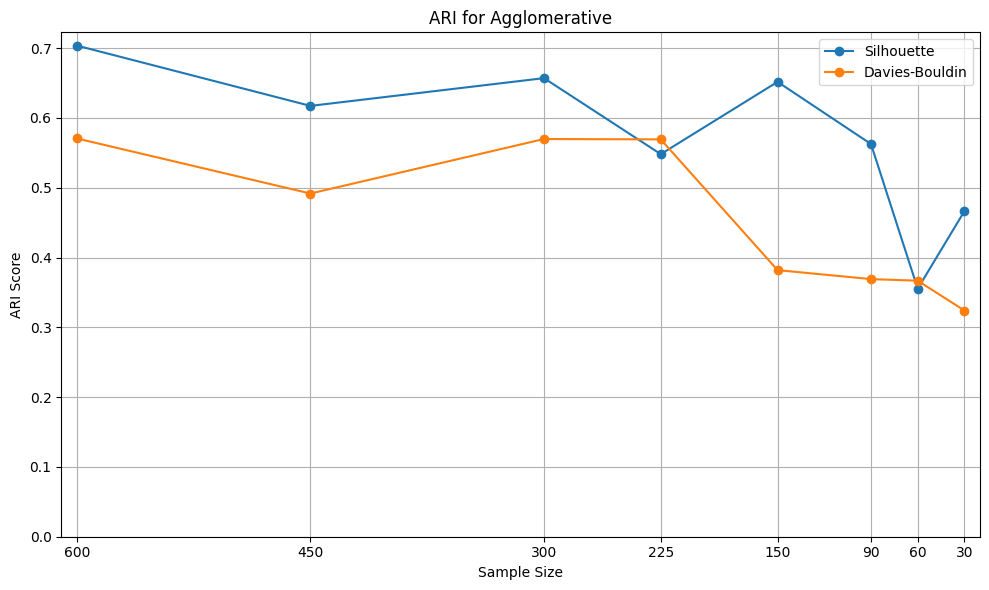
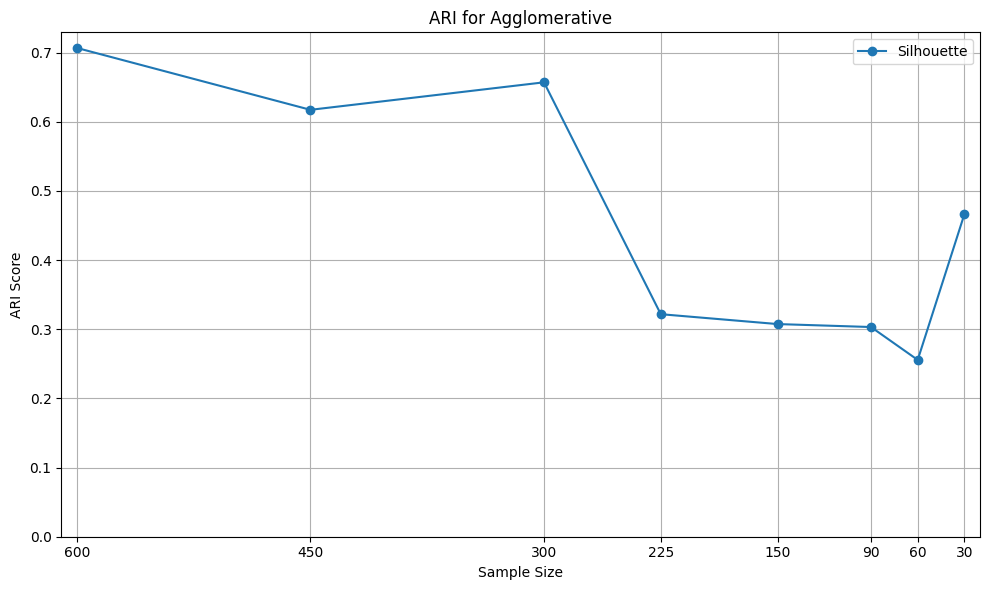
Diff sample size done

diff --git a/Project 3/Hedvog.py b/Project 3/Hedvog.py
@@ -46,7 +46,7 @@ def plot_silhouette_samples(X, labels, title):
     plt.show()
 
 # === Clustering Runner ===
-def run_clustering_models(X, y_true=None, k_range=range(2, 31), dataset_name="Dataset", plot=True, diff_sample=False):
+def run_clustering_models(X, y_true=None, k_range=range(2, 11), dataset_name="Dataset", plot=True, diff_sample=False):
     X_scaled = StandardScaler().fit_transform(X)
 
     if dataset_name == "CatDog":
@@ -54,6 +54,7 @@ def run_clustering_models(X, y_true=None, k_range=range(2, 31), dataset_name="Da
     else:
         if diff_sample:
             n_components = min(50, np.floor(X_scaled.shape[0]//5), X_scaled.shape[1])
+            k_range = range(2, 30)
         else:
             n_components = min(50, X_scaled.shape[0], X_scaled.shape[1])
 
@@ -207,7 +208,7 @@ def run_clustering_models(X, y_true=None, k_range=range(2, 31), dataset_name="Da
     return results
 
 # === Sample Size Simulation ===
-def simulate_sample_size_effect(X, y, classes=[0,1,2], sizes=[200, 100, 75, 50, 30, 20, 10, 5, 1], dataset_name="MNIST_SampleSize"):
+def simulate_sample_size_effect(X, y, classes=[0,1,2], sizes=[200, 150, 100, 75, 50, 30, 20, 10], dataset_name="MNIST_SampleSize"):
     print(f"\n=== Simulating Sample Size Effect on {dataset_name} ===")
     all_results = []
     for n_per_class in sizes:
@@ -299,7 +300,7 @@ def resampling_stability_analysis(X, y_true, k, n_resamples=10, dataset_name="Da
 # === Run ===
 (catdog_X, catdog_y), (numbers_X, numbers_y) = load_catdog_numbers()
 #results_catdog = run_clustering_models(catdog_X, y_true=catdog_y, dataset_name="CatDog", k_range=range(2, 11))
-#results_numbers = run_clustering_models(numbers_X, y_true=numbers_y, dataset_name="Numbers", k_range=range(2,16))
+#results_numbers = run_clustering_models(numbers_X, y_true=numbers_y, dataset_name="Numbers", k_range=range(2, 16))
 
 # Print results
 #print("\n=== Full Dataset Results ===")
@@ -319,13 +320,13 @@ models = sample_size_results["Model"].unique()
 for model in models:
     data = sample_size_results[sample_size_results["Model"] == model]
     ARI_sil = data["ARI (Sil)"].to_numpy()
-    ARI_db = data["ARI (DB)"].to_numpy()
+    #ARI_db = data["ARI (DB)"].to_numpy()
     k_sil = data["Best k (Sil)"].to_numpy()
-    k_db = data["Best k (DB)"].to_numpy()
+    #k_db = data["Best k (DB)"].to_numpy()
 
     plt.figure(figsize=(10, 6))
     plt.plot(sample_sizes, ARI_sil, label='Silhouette', marker='o')
-    plt.plot(sample_sizes, ARI_db, label='Davies-Bouldin', marker='o')
+    #plt.plot(sample_sizes, ARI_db, label='Davies-Bouldin', marker='o')
     plt.title(f"ARI for {model}")
     plt.xlabel("Sample Size")
     plt.ylabel("ARI Score")
@@ -339,7 +340,7 @@ for model in models:
 
     plt.figure(figsize=(10, 6))
     plt.plot(sample_sizes, k_sil, label='Silhouette', marker='o')
-    plt.plot(sample_sizes, k_db, label='Davies-Bouldin', marker='o')
+    #plt.plot(sample_sizes, k_db, label='Davies-Bouldin', marker='o')
     plt.title(f"Number of Clusters for {model}")
     plt.xlabel("Sample Size")
     plt.ylabel("Number of Clusters")
